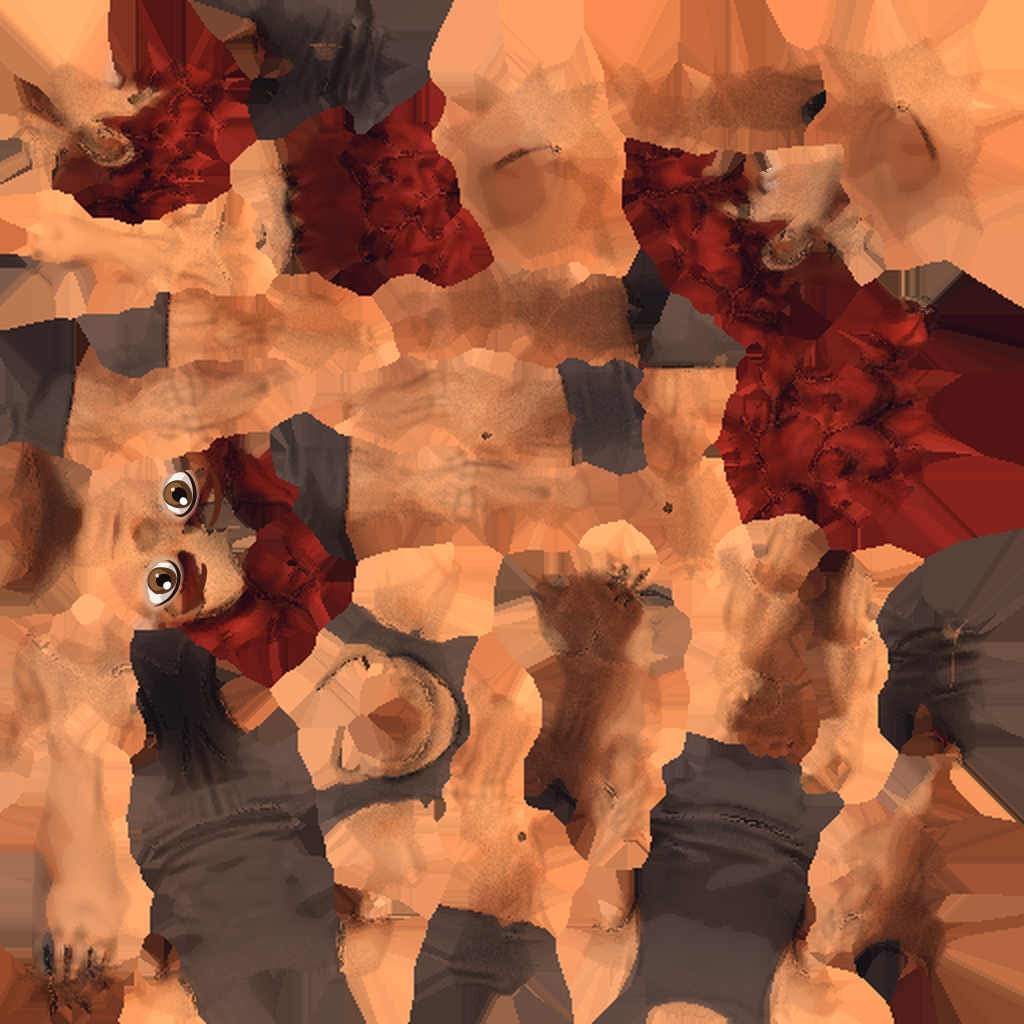
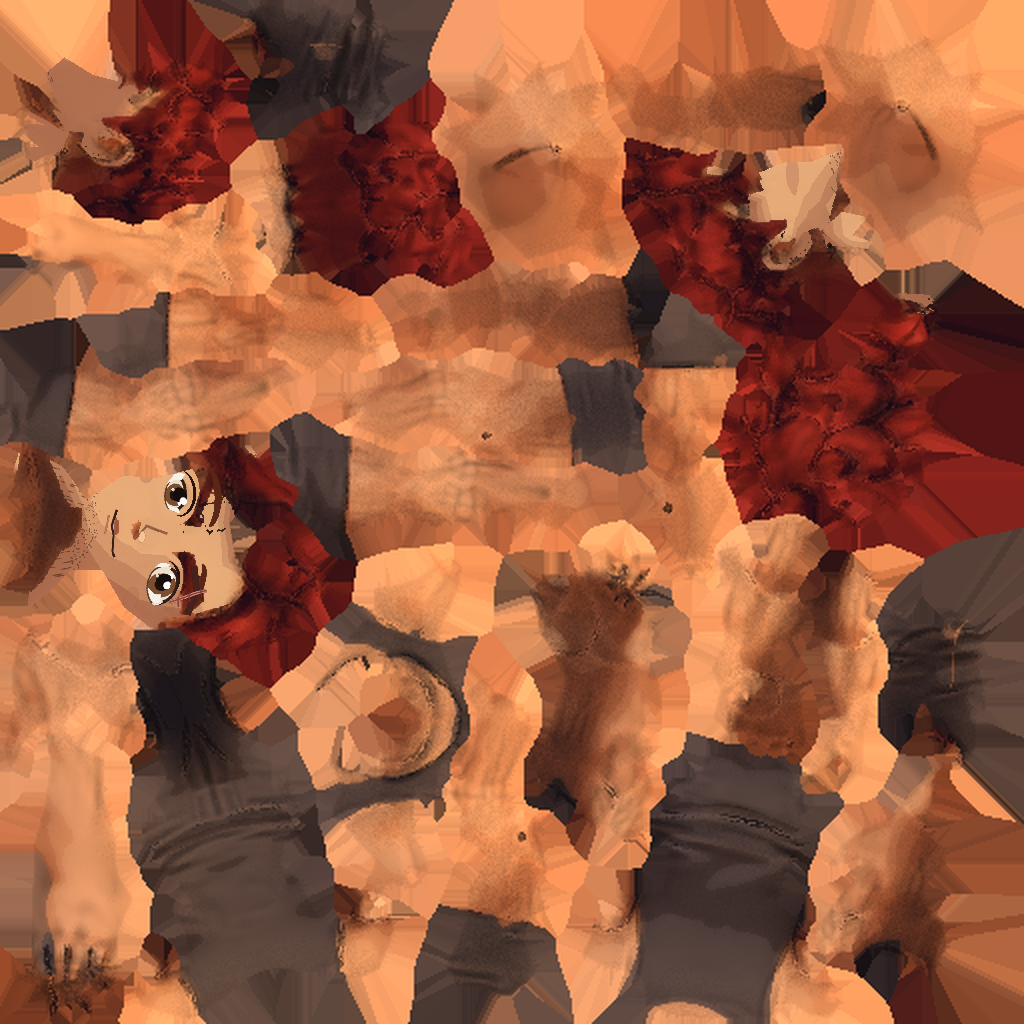
feat(arte): piloto menos 'de IA' no Guerreiro (rosto assimetrico com cicatriz, desgaste e ombro assimetrico)

diff --git a/art-src/modelos/scripts/paint_rosto.py b/art-src/modelos/scripts/paint_rosto.py
@@ -1,0 +1,72 @@
+"""Rosto do Guerreiro menos 'de IA': pele em 2 tons (luz alto-esquerda), olhos assimetricos, cicatriz, sobrancelha pesada, boca de lado.
+Projeta uma folha 2D (espaco do rosto, camera frontal ortografica 0,55 m centrada em x=0,z=1,25) nos texels do Body_Head."""
+import numpy as np, sys
+from PIL import Image, ImageDraw, ImageFilter
+src,dump,out=sys.argv[1:4]
+tex=np.asarray(Image.open(src).convert('RGB')).astype(np.float32)
+d=np.load(dump); pos,nrm,ok,oid=d['pos'],d['nrm'],d['ok'],d['oid']
+head=ok&(oid==4)
+X=pos[...,0]; Z=pos[...,2]; Y=pos[...,1]
+SC=0.55/900
+px=X/SC+450; py=(1.25-Z)/SC+450
+R,G,B=tex[...,0],tex[...,1],tex[...,2]
+skin=head&(R>70)&(G/(R+1)>0.55)&(R-B>20)&(Y<0.1)&(nrm[...,1]<0.35)
+face=skin&(py>270)&(py<720)&(px>200)&(px<690)
+# 1) pele chapada 2 tons por luz (alto-esquerda-frente)
+L=np.array([-0.45,-0.7,0.55]); L/=np.linalg.norm(L)
+nd=np.clip((nrm*L).sum(-1),-1,1)
+base=np.array([222,158,108.]); sh=np.array([168,104,76.]); hi=np.array([238,180,128.])
+t=np.clip((nd-0.10)/0.45,0,1)[...,None]
+col=np.where(t<0.5, sh+(base-sh)*np.clip(t*2,0,1), base+(hi-base)*np.clip(t*2-1,0,1))
+step=np.round(t*3)/3; col=sh+(hi-sh)*step*0.85+ (base-sh)*0.1
+# 2) folha de detalhes (900x900 RGBA, 4x supersample)
+SS=4; W=900*SS
+ov=Image.new('RGBA',(W,W),(0,0,0,0)); dr=ImageDraw.Draw(ov)
+def E(cx,cy,rx,ry,fill,ang=0):
+    dr.ellipse([(cx-rx)*SS,(cy-ry)*SS,(cx+rx)*SS,(cy+ry)*SS],fill=fill)
+ink=(52,30,24,255)
+def eye(cx,cy,rx,ry,tilt,iris=(122,78,46,255),hl=(-0.25,-0.25),open_=1.0):
+    E(cx,cy,rx,ry*open_,(236,224,204,255))
+    E(cx+rx*0.05,cy+ry*0.05,rx*0.62,ry*0.88*open_,iris)
+    E(cx+rx*0.05,cy+ry*0.05,rx*0.30,ry*0.45*open_,(28,18,14,255))
+    E(cx+rx*hl[0]*1.4,cy+ry*hl[1]*1.5,rx*0.16,ry*0.2,(255,255,255,255))
+    # palpebra superior + contorno
+    dr.arc([(cx-rx)*SS,(cy-ry*open_)*SS,(cx+rx)*SS,(cy+ry*open_)*SS],200,340,fill=ink,width=int(7*SS))
+    dr.arc([(cx-rx)*SS,(cy-ry*open_)*SS,(cx+rx)*SS,(cy+ry*open_)*SS],20,160,fill=(96,56,44,255),width=int(3*SS))
+# olho esquerdo (do personagem = direita da imagem) mais aberto, direito semicerrado e mais baixo
+eye(352,447,40,31,0,open_=0.82,hl=(0.3,-0.3))
+eye(548,438,43,36,0,open_=1.0,hl=(-0.3,-0.25))
+def brow(pts,w):
+    dr.line([(x*SS,y*SS) for x,y in pts],fill=(70,34,28,255),width=int(w*SS),joint='curve')
+brow([(292,398),(330,384),(380,392)],18)      # esquerda da imagem: grossa e baixa, franzida
+brow([(500,376),(552,360),(606,366)],14)      # outra: mais alta, arqueada
+# cicatriz na sobrancelha da imagem-esquerda
+dr.line([(548*SS,338*SS),(584*SS,412*SS)],fill=(206,128,112,255),width=int(8*SS))
+dr.line([(548*SS,338*SS),(584*SS,412*SS)],fill=(128,64,60,255),width=int(3*SS))
+for k in range(3): dr.line([((545+k*13)*SS,(352+k*22)*SS),((565+k*13)*SS,(346+k*22)*SS)],fill=(128,64,60,255),width=int(2.5*SS))
+# nariz: sombra lateral + ponta
+dr.line([(437*SS,452*SS),(428*SS,505*SS),(452*SS,520*SS)],fill=(150,92,66,255),width=int(5*SS),joint='curve')
+E(455,512,13,8,(244,196,150,255))
+# boca: meio sorriso de lado
+dr.line([(402*SS,586*SS),(446*SS,596*SS),(502*SS,576*SS)],fill=ink,width=int(6*SS),joint='curve')
+dr.line([(502*SS,576*SS),(514*SS,566*SS)],fill=ink,width=int(5*SS))
+dr.line([(420*SS,606*SS),(470*SS,612*SS)],fill=(190,120,92,255),width=int(5*SS))
+# barba rala + sujeira so de um lado
+rng=np.random.default_rng(7)
+for _ in range(260):
+    x=rng.uniform(300,600); y=rng.uniform(630,690)
+    if (x-450)**2/190**2+(y-520)**2/200**2<1.0: dr.ellipse([x*SS,y*SS,(x+2.6)*SS,(y+2.6)*SS],fill=(96,62,46,200))
+E(300,520,34,20,(190,122,92,120)); E(590,500,26,16,(176,110,84,90))
+ov=ov.filter(ImageFilter.GaussianBlur(SS*0.45)).resize((900,900),Image.LANCZOS)
+ova=np.asarray(ov).astype(np.float32)
+ix=np.clip(px.astype(int),0,899); iy=np.clip(py.astype(int),0,899)
+O=ova[iy,ix]; a=(O[...,3]/255)[...,None]
+res=tex.copy()
+fm=face[...,None]
+# mistura da pele nova: suave nas bordas da mascara
+edge=np.clip(np.minimum(np.minimum(px-200,690-px),np.minimum(py-270,720-py))/25,0,1)[...,None]
+res=np.where(fm,res*(1-edge*0.92)+col*edge*0.92,res)
+det=(face|(head&(px>470)&(px<640)&(py>330)&(py<420)))&(nrm[...,1]<0.05)&(Y<0.1)
+res=np.where(det[...,None],res*(1-a)+O[...,:3]*a,res)
+Image.fromarray(np.clip(res,0,255).astype(np.uint8)).save(out)
+print('face texels',int(face.sum()))

diff --git a/art-src/modelos/scripts/v3_assim.py b/art-src/modelos/scripts/v3_assim.py
@@ -1,0 +1,39 @@
+import bpy, sys, os, math
+from mathutils import Vector
+a=sys.argv[sys.argv.index('--')+1:]; OUT=a[0]; TB=a[1]; TS=a[2]; EXPORT=len(a)>3
+os.makedirs(OUT,exist_ok=True)
+for im in bpy.data.images:
+    if 'Warrior_Body_BC' in im.name: im.filepath=TB; im.reload()
+    if 'Warrior_Starter_BC' in im.name: im.filepath=TS; im.reload()
+def render(tag, cams):
+    sc=bpy.context.scene; sc.render.engine='BLENDER_WORKBENCH'; sc.render.resolution_x=sc.render.resolution_y=900
+    sh=sc.display.shading; sh.light='STUDIO'; sh.color_type='TEXTURE'
+    w=sc.world or bpy.data.worlds.new('w'); sc.world=w; w.color=(0.6,0.6,0.6)
+    cam=bpy.data.objects.get('cam') or bpy.data.objects.new('cam',bpy.data.cameras.new('cam'))
+    if cam.name not in sc.collection.objects: sc.collection.objects.link(cam)
+    sc.camera=cam; cam.data.type='ORTHO'; cam.data.ortho_scale=1.9
+    for n,(loc,rot) in cams.items():
+        cam.location=loc; cam.rotation_euler=[math.radians(r) for r in rot]
+        sc.render.filepath=os.path.join(OUT,f'{tag}_{n}.png'); bpy.ops.render.render(write_still=True)
+CAMS=dict(front=((0,-4,0.78),(90,0,0)),q34=((2.6,-3.0,1.0),(80,0,40)))
+for o in bpy.data.objects:
+    if o.name.startswith('Body_') and o.name!='Body_Head': o.hide_render=True
+render('antes',CAMS)
+ch=bpy.data.objects['SK_Warrior_Chest_Starter']
+c=Vector((0,0.03,0.93))
+for v in ch.data.vertices:
+    p=v.co
+    if p.z>0.80 and abs(p.x)>0.2:
+        s=1.13 if p.x>0 else 0.95
+        ctr=Vector((0.31 if p.x>0 else -0.31,0.03,0.96)); v.co=ctr+(p-ctr)*s
+        if p.x>0: v.co.z+=0.012
+ch.data.update()
+render('depois',CAMS)
+if EXPORT:
+    sys.path.insert(0,'D:/openclaude/EchoesOfTheShatter/art-src/graybox/scripts'); os.environ.setdefault('GB_ROOT','D:/openclaude/_trabalho-claude/tmp/gb_root')
+    import gb_rig
+    arm=bpy.data.objects['Rig_Humanoid_Chibi']
+    for o in bpy.data.objects: o.hide_render=False
+    gb_rig.export_fbx_rigged(arm,[ch],os.path.join(OUT,'SK_Warrior_Chest_Starter.fbx'))
+    body=[bpy.data.objects[n] for n in ('Body_Arms','Body_Feet','Body_Hands','Body_Head','Body_Legs','Body_Torso')]
+    gb_rig.export_fbx_rigged(arm,body,os.path.join(OUT,'SK_Warrior_Body.fbx'))

diff --git a/art-src/modelos/scripts/paint_desgaste.py b/art-src/modelos/scripts/paint_desgaste.py
@@ -1,0 +1,45 @@
+import numpy as np, sys
+from PIL import Image
+src,dump,out=sys.argv[1:4]
+tex=np.asarray(Image.open(src).convert('RGB')).astype(np.float32)
+d=np.load(dump); pos,ok=d['pos'],d['ok']
+X,Y,Z=pos[...,0],pos[...,1],pos[...,2]
+def vnoise(p,f,seed):
+    rng=np.random.default_rng(seed); g=rng.random((33,33,33)).astype(np.float32)
+    q=(p*f)%32; i=np.floor(q).astype(int); fr=q-i; fr=fr*fr*(3-2*fr); i1=(i+1)%33
+    def G(a,b,c): return g[a[...,0] if False else i[...,0]+a,i[...,1]+b,i[...,2]+c]
+    c=0
+    for a in (0,1):
+        for b in (0,1):
+            for e in (0,1):
+                w=(fr[...,0] if a else 1-fr[...,0])*(fr[...,1] if b else 1-fr[...,1])*(fr[...,2] if e else 1-fr[...,2])
+                c=c+w*g[(i[...,0]+a)%33,(i[...,1]+b)%33,(i[...,2]+e)%33]
+    return c
+P=np.stack([X,Y,Z],-1)
+R,G,B=tex[...,0],tex[...,1],tex[...,2]
+mx=tex.max(-1); mn=tex.min(-1); sat=(mx-mn)/(mx+1)
+steel=ok&(sat<0.28)&(mx>85)
+cloth=ok&(R>G*1.6)&(R>110)
+n1=vnoise(P+1.7,9,1); n2=vnoise(P,34,2); n3=vnoise(P+5,14,3)
+res=tex.copy()
+# riscos finos no aco: linhas onde o ruido fino cruza 0.5
+scr=(np.abs(n2-0.5)<0.022)&(n1>0.45)
+res[steel&scr]*=0.62
+res[steel&scr&(n3>0.6)]+=38
+# manchas de ferrugem so do lado +X (assimetria) e amassados escuros do lado -X
+rust=steel&(n3>0.66)&(X>-0.05)
+res[rust]=res[rust]*0.55+np.array([150,84,40.])*0.45
+dent=steel&(n1>0.72)&(X<0.05)
+res[dent]*=0.78
+# lama nas pernas/botas, mais forte atras
+mud=ok&(Z<0.42)
+f=np.clip((0.42-Z)/0.42,0,1)[...,None]*(0.35+0.5*n1[...,None])
+res=np.where(mud[...,None],res*(1-f*0.6)+np.array([78,56,38.])*f*0.6,res)
+# tecido: desbotado e manchado na barra, sem simetria
+hem=cloth&(Z<0.75)
+res[hem]=res[hem]*0.82+np.array([92,40,36.])*0.18
+res[cloth&(n3>0.7)]*=0.78
+# variacao geral entre pecas (desgaste por posicao)
+res[ok]*=(0.93+0.14*n1[ok][:,None])
+Image.fromarray(np.clip(res,0,255).astype(np.uint8)).save(out)
+print('steel',int(steel.sum()),'cloth',int(cloth.sum()))

diff --git a/art-src/modelos/scripts/texdump.py b/art-src/modelos/scripts/texdump.py
@@ -1,0 +1,28 @@
+import bpy, sys, numpy as np
+OUT=sys.argv[sys.argv.index('--')+1]
+S=1024
+for mat,tag in (('M_Warrior_Body','body'),('M_Warrior_Starter','starter')):
+    pos=np.zeros((S,S,3),np.float32); nrm=np.zeros((S,S,3),np.float32); ok=np.zeros((S,S),bool); oid=np.zeros((S,S),np.int8)
+    names=[]
+    for o in bpy.data.objects:
+        if o.type!='MESH' or not o.data.materials or o.data.materials[0].name!=mat: continue
+        names.append(o.name); k=len(names)
+        me=o.data; me.calc_loop_triangles(); uv=me.uv_layers.active.data
+        for t in me.loop_triangles:
+            U=np.array([uv[l].uv for l in t.loops]); U[:,1]=1-U[:,1]; U=U*S
+            P=np.array([me.vertices[v].co for v in t.vertices]); N=np.array([me.vertices[v].normal for v in t.vertices])
+            x0,y0=np.floor(U.min(0)).astype(int); x1,y1=np.ceil(U.max(0)).astype(int)
+            xs,ys=np.meshgrid(np.arange(max(x0,0),min(x1+1,S)),np.arange(max(y0,0),min(y1+1,S)))
+            if xs.size==0: continue
+            px=xs+0.5; py=ys+0.5
+            d=(U[1,1]-U[2,1])*(U[0,0]-U[2,0])+(U[2,0]-U[1,0])*(U[0,1]-U[2,1])
+            if abs(d)<1e-9: continue
+            a=((U[1,1]-U[2,1])*(px-U[2,0])+(U[2,0]-U[1,0])*(py-U[2,1]))/d
+            b=((U[2,1]-U[0,1])*(px-U[2,0])+(U[0,0]-U[2,0])*(py-U[2,1]))/d
+            c=1-a-b; m=(a>=-0.02)&(b>=-0.02)&(c>=-0.02)
+            yy,xx=ys[m],xs[m]
+            pos[yy,xx]=a[m,None]*P[0]+b[m,None]*P[1]+c[m,None]*P[2]
+            nrm[yy,xx]=a[m,None]*N[0]+b[m,None]*N[1]+c[m,None]*N[2]
+            ok[yy,xx]=True; oid[yy,xx]=k
+    np.savez_compressed(f'{OUT}_{tag}.npz',pos=pos,nrm=nrm,ok=ok,oid=oid,names=np.array(names))
+    print(tag,names,ok.mean())
